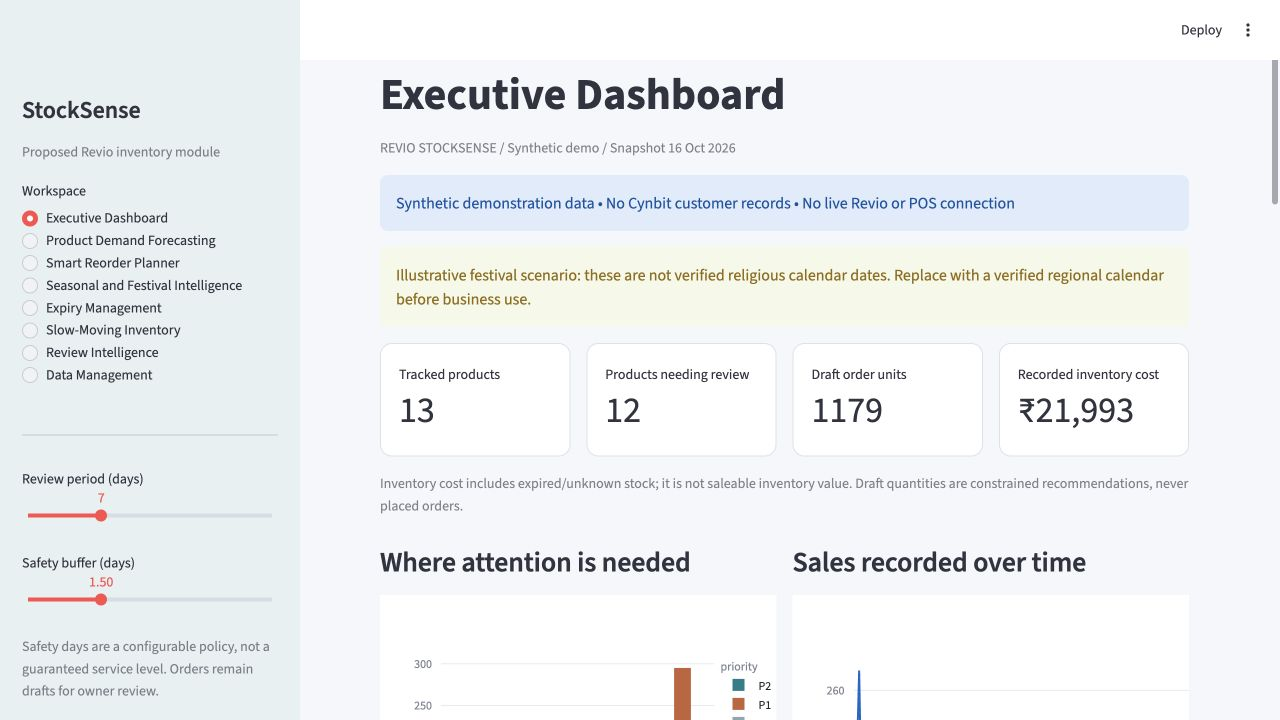
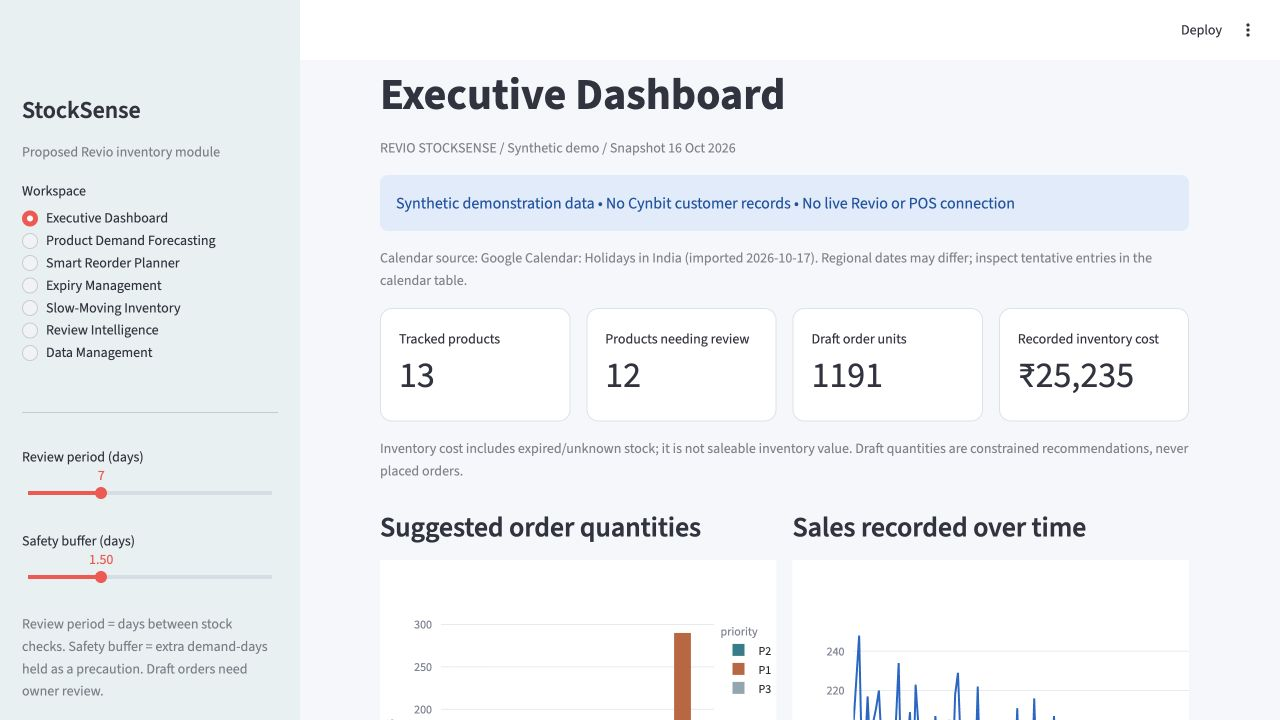
Refresh assessment reports and verify unified forecasting UI

diff --git a/reports/Complete_Project_Explanation.md b/reports/Complete_Project_Explanation.md
@@ -16,10 +16,12 @@ This separation makes errors easier to understand. If demand is wrong, inspect t
 
 | Path | Purpose |
 |---|---|
-| app/app.py | Eight-section Streamlit UI, session state and cached computation |
+| app/app.py | Seven-section Streamlit UI, session state and cached computation |
 | src/data.py | Six-table validation, CSV handling, demand masking, summaries, SQLite |
 | src/forecasting.py | Origin-only features, training, prediction, metrics, chronological evaluation |
 | src/inventory.py | Periodic policy, constrained rounding, daily FEFO, explanations |
+| src/seasonal_model.py | Per-product joint seasonal, trend, weekday and festival count model |
+| src/calendar_data.py | Public calendar snapshot normalization and provenance |
 | src/seasonality.py | Monthly profile and comparable event windows |
 | src/reviews.py | Product alias and English intent rules |
 | scripts/generate_data.py | Seeded synthetic ledger and snapshot generator |
@@ -43,7 +45,7 @@ Suppose a shelf begins with three bottles and sells all three. Actual demand cou
 
 This is a pragmatic baseline, not a complete censored-demand estimator. Discarding constrained days may select unusually quiet days and underestimate demand. The generator records latent demand so evaluation can illustrate that issue, but production data cannot supply it directly.
 
-## What a model training row means
+## Legacy boosting comparator training rows
 
 Take an origin at the end of18 June2026 and a target seven days later. History features use observations no later than18 June. The target weekday/month and event proximity are known calendar features for25 June. The target is observed uncensored sales on25 June. A training cutoff earlier than25 June would forbid this row.
 
@@ -51,17 +53,17 @@ Take an origin at the end of18 June2026 and a target seven days later. History f
 
 No recursive prediction loop feeds yesterday's prediction into today's lag. This is direct multi-horizon regression: every horizon uses the same known origin history plus that horizon's calendar features. The tradeoff is more training rows and an explicit maximum30-day planning horizon.
 
-## Why there are three predictors
+## Why there are four predictors
 
-A model is useful only if it improves a credible simple approach. A28-day average and weekly seasonal naive forecast are cheap, understandable benchmarks. The three validation windows select the lowest pooled MAE. The final test window reports honest unseen performance. The selected gradient-boosted model is then refitted on all available historical data for the next30 days.
+A model is useful only if it improves a credible simple approach. A28-day average and weekly seasonal naive forecast are cheap, understandable benchmarks. Four validation windows select the lowest pooled MAE. Twelve later 30-day rolling test windows span 360 days. Seasonal Poisson regression wins selection and jointly fits each product’s smooth annual curve, weekdays, trend and dated festival effects. It is refitted on available history for the next30 days. With less than a full annual span it falls back to the average; without adequate recent history it withholds predictions.
 
 For uploaded data, demo results are irrelevant. The UI starts with the moving average. Running that snapshot's chronological evaluation selects a method for that snapshot. Very short histories cannot support the full evaluation protocol. Point forecasts have data-support labels, not claimed confidence intervals.
 
 ## How to read the measured results
 
-The selected model's final observed test MAE2.975 means its average absolute daily error per evaluated SKU is about three units. WAPE22.248% aggregates absolute errors relative to total actual units; it is not classification accuracy. Bias-0.163 means a small average underprediction on this synthetic test. RMSE4.064 gives more weight to larger errors.
+The selected seasonal model has rolling test MAE2.884, RMSE3.958, WAPE18.673% and bias-0.052. MAE is average absolute daily error in units; WAPE is aggregate numerical error, not classification accuracy.
 
-The moving-average MAE is3.599. Relative MAE reduction is about17.3%, but only on this simulation. There are353 evaluated product-days; seven stocked-product days are censored. The thirteenth SKU has no history and is excluded. The separate latent simulation diagnostic includes360 stocked-product days.
+The same-data boosting MAE is2.990 and average MAE3.389: relative improvements of3.5% and14.9%. There are4,201 observed product-days across360 test days. All four broad seasons improve, but not every SKU. The no-history SKU is excluded. Latent simulation diagnostics are separate. Old v1 metrics use different dates and a shorter protocol, so cannot be compared directly.
 
 ## Walk through the inventory engine
 
@@ -79,7 +81,7 @@ Eighty yogurt units expire after five future sellable days. Demand6/day consumes
 
 ## Seasons, events and reviews
 
-The monthly chart shows historical observed means, which can reflect seasonality and trend together. The event table compares pre-event demand against a preceding baseline and requires multiple adequately observed occurrences. It does not prove a festival caused demand growth. The bundled dates are fictional scenario entries and must be replaced for real use.
+The monthly chart shows historical observed means, which can reflect seasonality and trend together. The event table compares pre-event demand against a preceding baseline and requires multiple adequately observed occurrences. It does not prove a festival caused demand growth. The actual dates are imported public Google Calendar entries, with provenance in Data Management. This is a snapshot, not continuous synchronization. Seasonal evidence sits inside Product Demand Forecasting; there is one combined forecast.
 
 The review rule pipeline finds long catalog aliases first. A request for sugar-free cola maps to that SKU instead of ordinary cola. Availability, variant and quality intents can coexist. Evidence and original text remain visible. A no-history variant gets an investigation recommendation, not a fabricated forecast. The model never receives review counts.
 
@@ -106,6 +108,8 @@ This is a local single-store proof of concept, with no purchase execution, publi
 
 
 # Part II - Engineering decisions
+
+The initial sections below record v1 decisions and historical results. Revision2 sections supersede their model, calendar, evaluation and navigation choices; current metrics are in evaluation/metrics.json.
 
 2026-10-17.
 
@@ -138,6 +142,14 @@ WHAT: A six-table synthetic snapshot, availability ledger and origin-only featur
 
 WHAT: Streamlit session snapshots, content-keyed forecast caching and explicit SQLite save/load. WHY: a local assessment needs reproducible interactions without cloud infrastructure. HOW: all six tables validate before session replacement; SQLite writes a temporary database then replaces the saved file. UI upload controls and parser enforce a10MB limit. ALTERNATIVES: automatic database writes could persist accidental uploads; a hosted database would add unnecessary setup. DECISION: save only on an explicit button click and revalidate on load. EXAMPLE: an incomplete upload raises an error while the previous snapshot remains visible. LIMITATIONS: fixed local persistence is single-user; simultaneous writers, authentication and durable audit history are not addressed. Imported reviews update provenance even when numerical sales/evaluation remain unchanged.
 
+## Revision 2: unified seasonal forecasting and Google Calendar
+
+WHAT: Added per-SKU Poisson regression with two annual Fourier harmonics, weekday indicators, linear time trend and individual festival preparation windows in one joint demand model. WHY: the original global model's month-level signals and one-month test did not establish robustness across seasons; a separate seasonal workspace obscured the single forecast. HOW: standardized known calendar features are fitted jointly with regularization alpha0.03; coefficients differ by SKU. No universal seasonal multiplier or second forecast is added. The former gradient-boosted model remains an unchanged comparator. ALTERNATIVES: manually increase summer demand, add a separate festival forecast, or tune models on the final test; rejected. DECISION: compare fixed candidates using earlier validation origins, freeze model choice, then report rolling-origin test errors across360 days, by season, SKU and event window. EXAMPLE: cola and tea can learn different annual curves while a gifting product learns a stronger festival effect. LIMITATIONS: harmonic regression assumes repeatable smooth seasonality and log-linear trend; abrupt changes and weather remain unmodelled. One year and180 observed days are required for annual fitting; otherwise use the28-day baseline and label the fallback.
+
+WHAT: Imported public Holidays in India entries through the connected Google Calendar. WHY: replace fictional festival dates with the user's requested calendar source. HOW: keep only seven relevant festival families for2024–2027, preserve literal all-day dates and tentative labels, store public source links and retrieval date. Private, family and classroom events were not read. ALTERNATIVES: repeat fixed Gregorian dates or claim the connector automatically authenticates Streamlit; rejected. DECISION: an explicit imported snapshot, with calendar inspection/download/apply controls; no unattended live sync is claimed. EXAMPLE: Dussehra2026 is20October and Holi changes date each year. LIMITATIONS: calendar dates can change or differ regionally; historical calendar retrieval is retrospective rather than a timestamped historical feed.
+
+WHAT: Regenerated only the reproducible synthetic demo so simulated event demand aligns with imported calendar dates. WHY: relabelling fictional event-driven sales with real dates would corrupt evaluation. HOW: same seed and generator logic, public calendar inputs substituted; user uploads and local SQLite untouched. ALTERNATIVES: compare new errors directly with v1's different data; rejected. DECISION: all candidates are rerun on the identical v2 dataset; v1 metrics retained under evaluation/archive/v1. EXAMPLE: festival-related demand in2025 follows calendar Diwali20October rather than a fictional8November. LIMITATIONS: improvements remain simulation results and not evidence from a real retailer.
+
 
 # Part III - Interview preparation
 
@@ -145,13 +157,13 @@ Use these as explanations of this implementation, not claims of prior profession
 
 ## 30-second pitch
 
-StockSense is a proposed inventory intelligence module that could complement Revio. It helps a kirana owner forecast demand, review replenishment and identify expiry or excess stock. I compare simple baselines with gradient boosting using chronological validation, then apply transparent inventory rules. Customer reviews suggest product investigations but never become invented sales quantities. The working demo uses synthetic data, so its results are engineering evidence, not proof of real-store savings.
+StockSense is a proposed inventory intelligence module that could complement Revio. It helps a kirana owner forecast demand, review replenishment and identify expiry or excess stock. I compare simple baselines with seasonal Poisson regression and gradient boosting using chronological validation, then apply transparent inventory rules. Customer reviews suggest product investigations but never become invented sales quantities. The working demo uses synthetic data, so its results are engineering evidence, not proof of real-store savings.
 
 ## Two-minute explanation
 
 A retailer can have both stockouts and overstock. A sales forecast alone does not solve that because inventory may expire or arrive too late. StockSense validates sales, batches, orders, product rules, reviews and a calendar as one snapshot. It masks known stockout days rather than treating constrained sales as full demand.
 
-A global direct gradient-boosted model predicts each of the next30 days using only information available at the forecast origin. It is compared with a28-day average and weekly seasonal naive baseline. Three chronological validation windows select the model; a separate final30-day test reports performance. The selected model achieved MAE2.975 versus3.599 for the average on synthetic uncensored observations.
+One product-specific model combines season, weekdays, trend and festival dates into each daily forecast. Four validation windows select seasonal Poisson regression over boosting and two simple baselines. Twelve subsequent rolling windows test360 days. Synthetic observed MAE is2.884 versus2.990 for boosting and3.389 for the average.
 
 The rule engine then simulates earliest-expiry-first consumption and dated receipts. It uses lead time plus review period, a configurable buffer, and conservative shelf-life, capacity, pack and MOQ limits to produce draft quantities. Unsupported products and unknown expiry require investigation. Reviews highlight requested variants or availability issues without numerically inflating forecasts. A production pilot would need consented real data, verified dates, integration and measured inventory outcomes.
 
@@ -161,7 +173,7 @@ Minute1: Explain the merchant problem, Revio's advertised review-management cont
 
 Minute2: Open the six CSV templates. Explain availability-censored sales, recorded batch expiry, confirmed purchase orders and snapshot date. Show validation rejecting an incomplete upload without changing data.
 
-Minute3: Show lag/rolling/calendar features and direct horizons in src/forecasting.py. Explain why random splitting would leak future information. Display measured baseline comparisons and distinguish WAPE from accuracy.
+Minute3: Show joint annual, weekday, trend and festival features in src/seasonal_model.py and the retained boosting comparator in src/forecasting.py. Explain why random splitting would leak future information. Display measured baseline comparisons and distinguish WAPE from accuracy.
 
 Minute4: Work through220 demand +30 buffer -80 stock -20 incoming=150. Show FEFO and the80-unit yogurt/five-day example. Explain why pack rounding cannot exceed a safe cap and why an early shortage cannot be repaired by a late receipt.
 
@@ -182,7 +194,7 @@ Kirana owners and purchasing staff are the proposed users. Revio publicly descri
 It links measurable ML forecasts to an operational decision and makes it possible to test business mathematics separately from model quality.
 
 ### 5. Where did the data come from?
-A reproducible seed42 generator created all bundled records. None are Cynbit data. The app also accepts a validated user-supplied snapshot.
+A reproducible seed42 generator created the business records; public Google Calendar supplied actual festival dates. None are Cynbit data. The app also accepts a validated user-supplied snapshot.
 
 ### 6. Why not train directly on every sale?
 Sales can be limited by stock. A shelf with three units cannot reveal whether demand was three or fifteen. Known constrained days are masked, although this does not fully solve censored-demand bias.
@@ -190,17 +202,17 @@ Sales can be limited by stock. A shelf with three units cannot reveal whether de
 ### 7. How do you handle missing dates?
 They remain unknown after daily reindexing. They are not silently filled with zero demand.
 
-### 8. Why gradient boosting?
-It handles nonlinear tabular relationships and missing features with modest infrastructure. More importantly, it beat both tested baselines on chronological validation.
+### 8. Why seasonal Poisson regression?
+It models nonnegative daily counts with smooth annual, weekday, trend and event effects learned jointly for each product. It beat boosting and simple baselines on pooled validation. Boosting remains a useful nonlinear comparator.
 
 ### 9. Why not LSTM or a large language model?
 Neither is necessary for this small structured dataset. They add complexity, data needs or costs without demonstrated benefit here.
 
 ### 10. What are the main features?
-Past lags and rolling statistics, missingness, product identity, horizon, target weekday, cyclic month and known event proximity. No future stock, future sales or latent demand enters the predictors.
+The selected model uses two annual sine/cosine harmonics, weekday, trend and festival-specific preparation windows. The boosting comparator uses lags, rolling statistics, missingness, product identity, horizon, weekday, cyclic month and event proximity. No future stock, future sales or latent demand enters the predictors.
 
 ### 11. What does direct multi-horizon mean?
-Each future day gets its own feature row from the same known origin history. Predictions are not fed back recursively as actual lags.
+In the retained boosting comparator, each future day gets its own feature row from the same known origin history. Predictions are not fed back recursively as actual lags.
 
 ### 12. How is leakage prevented?
 Features stop at the origin, labels stop at the training cutoff, validation follows training chronologically, and the final test does not choose the model. A causality test changes future sales and checks that earlier features stay identical.
@@ -212,16 +224,16 @@ A28-day observed average and a repeated last week. Missing weekly observations u
 The selection rule chooses it. Model complexity is not the objective; validation performance is.
 
 ### 15. What are the measured results?
-Final synthetic observed test MAE2.975, RMSE4.064, WAPE22.248%, bias-0.163 for boosting; average baseline MAE3.599. There are353 valid product-days, not real customer outcomes.
+Seasonal Poisson rolling test MAE2.884, RMSE3.958, WAPE18.673%, bias-0.052. Same-data boosting MAE2.990; average MAE3.389. There are4,201 valid product-days across360 days, not real customer outcomes.
 
-### 16. Is WAPE22% the same as78% accuracy?
+### 16. Is WAPE19% the same as81% accuracy?
 No. WAPE is aggregate absolute numerical error divided by aggregate actual units. Subtracting it from100 does not produce classification accuracy.
 
 ### 17. Why report bias?
 Persistent underprediction can cause shortages even when average absolute error looks acceptable. Positive bias means overprediction; negative means underprediction.
 
 ### 18. How are festivals handled?
-Known event proximity is a model feature. Descriptive historical comparisons require multiple observed occurrences. The bundled calendar is fictional and must be replaced with verified local dates.
+Festival preparation windows are learned within the same forecast using actual public Google Calendar dates imported17 October2026. No second seasonal forecast or blanket uplift is added. The app uses a snapshot; regional/tentative dates need review.
 
 ### 19. Is the event uplift causal?
 No. Trend, promotions and overlapping events can confound it. The evidence table does not apply an extra forecast multiplier.
@@ -266,7 +278,7 @@ All six tables pass schema, dates, keys, numeric and reference checks before rep
 It provides simple optional local persistence without a separate service. It is not a substitute for tenant isolation or authenticated production storage.
 
 ### 33. What testing did you perform?
-Numerical business-rule tests, invalid-data and persistence checks, feature causality, no-history/expiry/receipt/event/review cases and automated navigation of all eight UI sections. Evaluation is executed separately and saved.
+Numerical business-rule tests, invalid-data and persistence checks, feature causality, no-history/expiry/receipt/event/review cases and automated navigation of all seven UI sections. Evaluation is executed separately and saved.
 
 ### 34. What is the largest limitation?
 External validity: synthetic data can only show that the approach works on the simulation. Real-store data quality, demand patterns and supplier behavior may differ substantially.
@@ -278,7 +290,7 @@ Confirm Cynbit fit and interfaces, collect consented real data, run shadow recom
 Compare stockout hours, expiry cost, inventory holding and owner review time against a defined baseline while controlling for promotions, seasons and supply changes. Forecast MAE alone is insufficient.
 
 ### 37. What would you change if real demand is intermittent?
-Evaluate intermittent-demand methods and probabilistic/count models against the same chronological protocol. Do not assume the current global model will win.
+Evaluate intermittent-demand methods and probabilistic/count models against the same chronological protocol. Do not assume the current selected model will win.
 
 ### 38. Can this application place orders or be used publicly today?
 No orders are placed. It runs locally without authentication. A public production service requires additional access controls, monitoring, consent and integration work.

diff --git a/docs/PROJECT_STATE.md b/docs/PROJECT_STATE.md
@@ -14,12 +14,12 @@ Updated 2026-10-17, revision2. User requested one season-aware demand forecast a
 
 25 pytest tests pass. Full evaluation executed: four validation origins choose seasonal Poisson by MAE3.088 vs boosting3.117. Twelve later disjoint30-day windows span360 test days. Observed synthetic n4,201: MAE2.884, RMSE3.958, WAPE18.673%, bias-0.052. Same-data boosting MAE2.990, average3.389. Relative reductions3.5% and14.9%; all four broad season groups improve, not every SKU. No merchant accuracy or ROI established. Calendar retrieval is retrospective, not a historical point-in-time feed.
 
-## Completion work
+## Completion
 
-Finalize browser rendering, refresh PDFs and record final QA. Local app http://127.0.0.1:8501/. README includes launch/evaluation commands. User .DS_Store change preserved and excluded from commits.
+Live browser verified: seven sections, seasonal model selected, one future line with Dussehra/Diwali markers, integrated explanation and public calendar controls. Forecast/dashboard screenshots refreshed. All25 report pages rendered and visually checked (opportunity5, technical7, explanation13). Latest suite25 passed; no known failing checks. Local app http://127.0.0.1:8501/. README includes launch/evaluation commands. User .DS_Store change preserved and excluded from commits.
 
 ## Git and boundaries
 
-Repository https://github.com/Sanskar1314/CynbitTask.git, main. Previous verified milestone7c002fece1d6c32bf113fa759c4c1bf4ff9385d0. Commit meaningful milestones, push immediately, verify remote HEAD; no force push. No public deployment, assessment submission, recruiter contact or visibility changes authorized. Logs record previous hashes to avoid recursion.
+Repository https://github.com/Sanskar1314/CynbitTask.git, main. Previous verified milestonefffff03a7c8b829a924d114a177cce28033f48bd. Commit meaningful milestones, push immediately, verify remote HEAD; no force push. No public deployment, assessment submission, recruiter contact or visibility changes authorized. Logs record previous hashes to avoid recursion.
 
 Production requires consented real data, regional calendar maintenance, supported POS/Revio integration, shadow-policy evaluation, authenticated tenant separation and calibrated uncertainty. Current synthetic single-store results do not establish production readiness.

diff --git a/docs/QA_Record.md b/docs/QA_Record.md
@@ -12,3 +12,11 @@
 Real-browser final upload: all six demo CSVs were submitted successfully in an isolated tab. The UI changed to Uploaded snapshot and explicitly selected the moving-average baseline pending snapshot-specific evaluation. Reset to demo was then exercised. The shared user tab was left separate from this test. Dependency check: no broken requirements found.
 
 Final QA: imported-review provenance corrected; UI upload limit10MB matches parser policy. Added independent high-demand/capacity and receipt-timing assertions. Final suite19 passed. Saved actual browser screenshot in assets/dashboard.png. PDF links verified structurally (five opportunity references, two technical references). Temporary renders removed after inspection.
+
+## Revision2 final verification — 17 October2026
+
+25 tests passed, including one combined forecasting workspace, calendar controls, product-specific opposite seasons, exact festival dates, causal training, annual-history fallback and empty-SKU evaluation joins. Full evaluation completed: selected seasonal model MAE2.884 versus same-data boosting2.990 over360 test days (4,201 observed product-days). All four broad season groups improve; not every SKU. No real-store result claimed.
+
+Restarted verified local Streamlit server to load new modules. Real browser shows seven sections, selected seasonal model, one forecast line with Dussehra20 October and Diwali8 November2026 markers, and integrated seasonal explanation. Screenshots assets/dashboard.png and assets/forecast.png. Public calendar management controls visible. User browser tab was not used for testing.
+
+Updated reports rebuilt and all25 pages visually inspected (5/7/13). Earlier entries describe v1 and are retained as history. Core milestonefffff03a7c8b829a924d114a177cce28033f48bd pushed and remote verified. No deployment, submission, recruiter contact or visibility change.

diff --git a/docs/Execution_Log.md b/docs/Execution_Log.md
@@ -15,3 +15,5 @@
 2026-10-17 revision2 in progress: user requested improved seasonal accuracy, one combined forecast and actual Google Calendar dates. Read required state/docs. Connected public Holidays in India calendar yielded242 events, retained28 relevant public dates2024–2027; personal calendars not read. Added per-SKU harmonic Poisson candidate and rolling seasonal evaluation; regenerated only synthetic demo to align event effects. Merged seasonal evidence into demand page; added calendar snapshot controls. Initial vectorized evaluation join exposed an empty-SKU datetime dtype edge case; fixed and added regression test. Full evaluation running; do not use prior v1 metrics for revised data.
 
 2026-10-17 revision2 verification: full evaluation completed. Four validation origins selected Seasonal Poisson regression (MAE3.088 vs boosting3.117). Twelve disjoint30-day test windows cover360 days and4,201 uncensored product-days: seasonal MAE2.884 vs boosting2.990, a3.5% same-data reduction, with improvement across all four broad seasons. Tests25 passed, including integrated forecast/calendar navigation. Model limitations and snapshot-only Google Calendar behavior documented. Previous milestone7c002fece1d6c32bf113fa759c4c1bf4ff9385d0. Reports and browser verification being finalized.
+
+2026-10-17 revision2 completed: core milestonefffff03a7c8b829a924d114a177cce28033f48bd pushed and remote HEAD verified. Live chart, seven-section navigation and calendar controls verified; forecast/dashboard screenshots refreshed. Reports and interview guide updated; all25 PDF pages inspected. Final tests25 passed. Full model evaluation already completed and saved. Local app remains on127.0.0.1:8501. Imported public Google Calendar snapshot is not continuous sync. Unrelated .DS_Store remains untouched.

diff --git a/docs/Development_Log.md b/docs/Development_Log.md
@@ -13,3 +13,5 @@ Base: 14df7c7b28cdee253171e5a78c663656bab5d557 (previous prototype). Date/time z
 2026-10-17: Dashboard c6f4c895978a906cdf5d01afe0b9043a16a80e39 pushed and remote verified. Initial automatic approval review failed due to a usage-limit service error (no action executed); authorized retry after user resume succeeded. Documentation milestone adds opportunity/technical reports, complete walkthrough,40 interview questions and three rendered PDFs. Nineteen tests passed. Browser six-table upload successfully replaced the snapshot and correctly switched to an unevaluated baseline. Review-only upload now updates provenance rather than falsely labelling imported reviews synthetic.
 
 2026-10-17: Documentation milestone f0eb380302e38dfefcbce5010a19bcf5af3350ea pushed and remote verified. Final integration milestone includes imported-review provenance correction,10MB upload control limits, high-demand/storage and PO-timing regression tests, actual dashboard screenshot and completed QA/state. Final19 tests passed. PDFs refined to5/6/12 pages, all visually inspected; temporary/obsolete PDF renders removed. Next commit hash intentionally not embedded in itself; verify Git HEAD against origin/main at handoff.
+
+2026-10-17 revision2 completed: core milestonefffff03a7c8b829a924d114a177cce28033f48bd pushed and remote HEAD verified. Live chart, seven-section navigation and calendar controls verified; forecast/dashboard screenshots refreshed. Reports and interview guide updated; all25 PDF pages inspected. Final tests25 passed. Full model evaluation already completed and saved. Local app remains on127.0.0.1:8501. Imported public Google Calendar snapshot is not continuous sync. Unrelated .DS_Store remains untouched.

diff --git a/README.md b/README.md
@@ -82,6 +82,8 @@ OPENBLAS_NUM_THREADS=1 OMP_NUM_THREADS=1 .venv/bin/python scripts/evaluate.py
 
 The suite includes data/persistence checks, business examples, causality, no-history, stockouts, expiry, receipt timing, constraints, reviews/events and navigation through every dashboard section. Rerun evaluation after model changes.
 
+![Unified forecast with calendar events](assets/forecast.png)
+
 ## Calendar integration
 
 The app uses imported public Holidays in India dates for 2024–2027, including Diwali on 8 November 2026. Inspect, download or apply these in Data Management. This is a snapshot, not continuous Google Calendar synchronization. No private appointments are used. [Calendar provenance and refresh](docs/Calendar_Integration.md).
